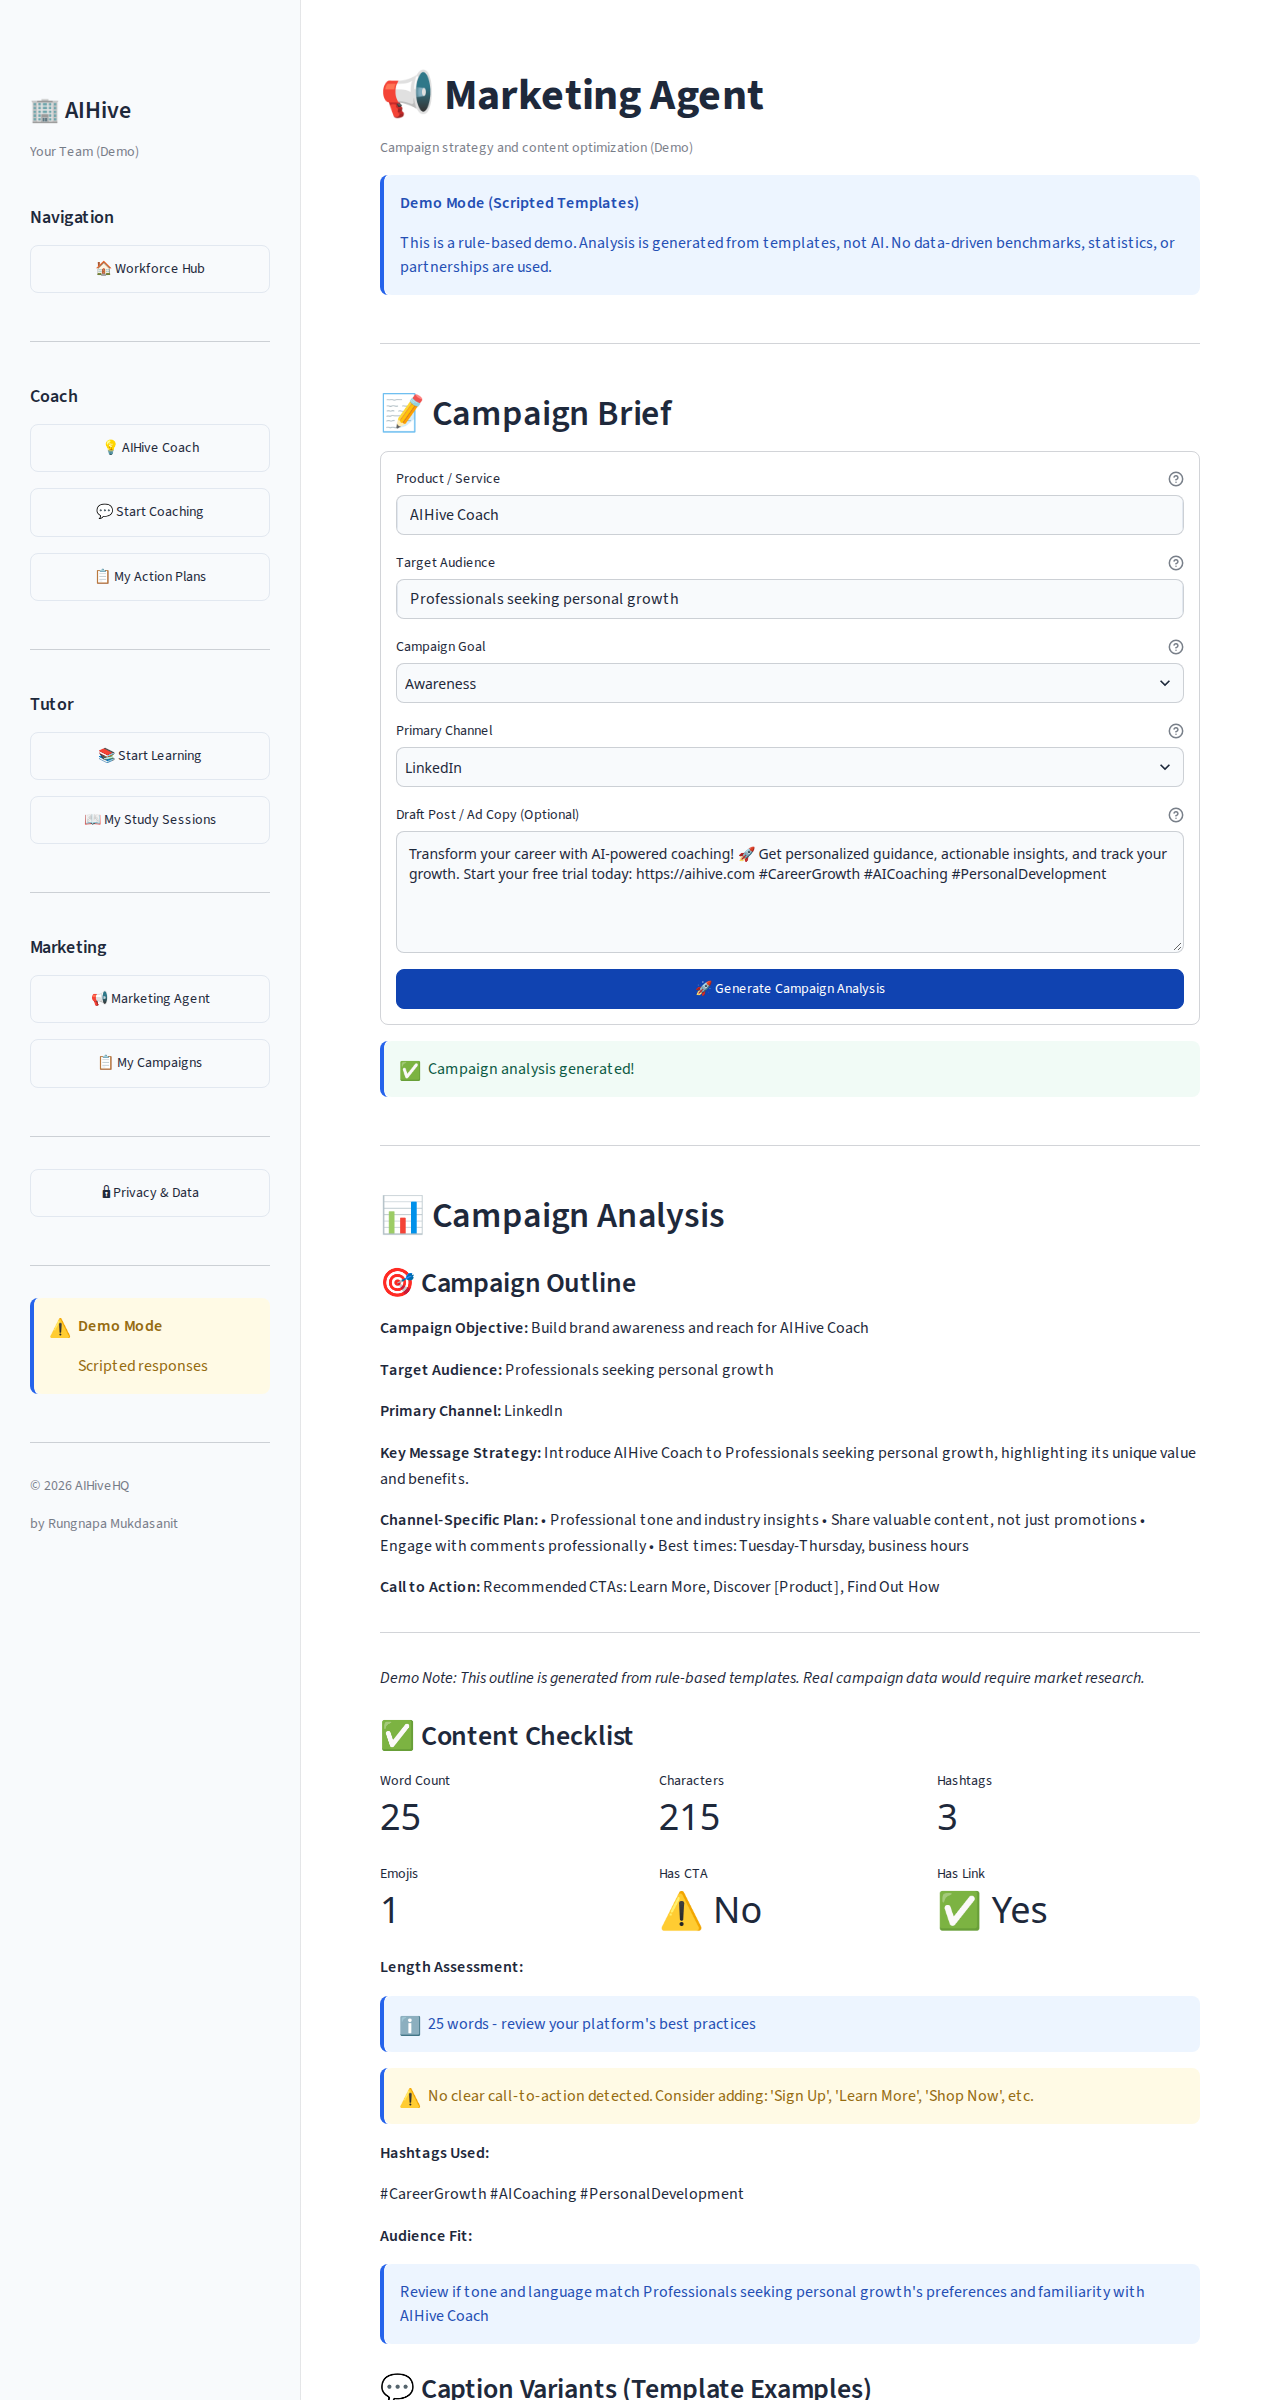
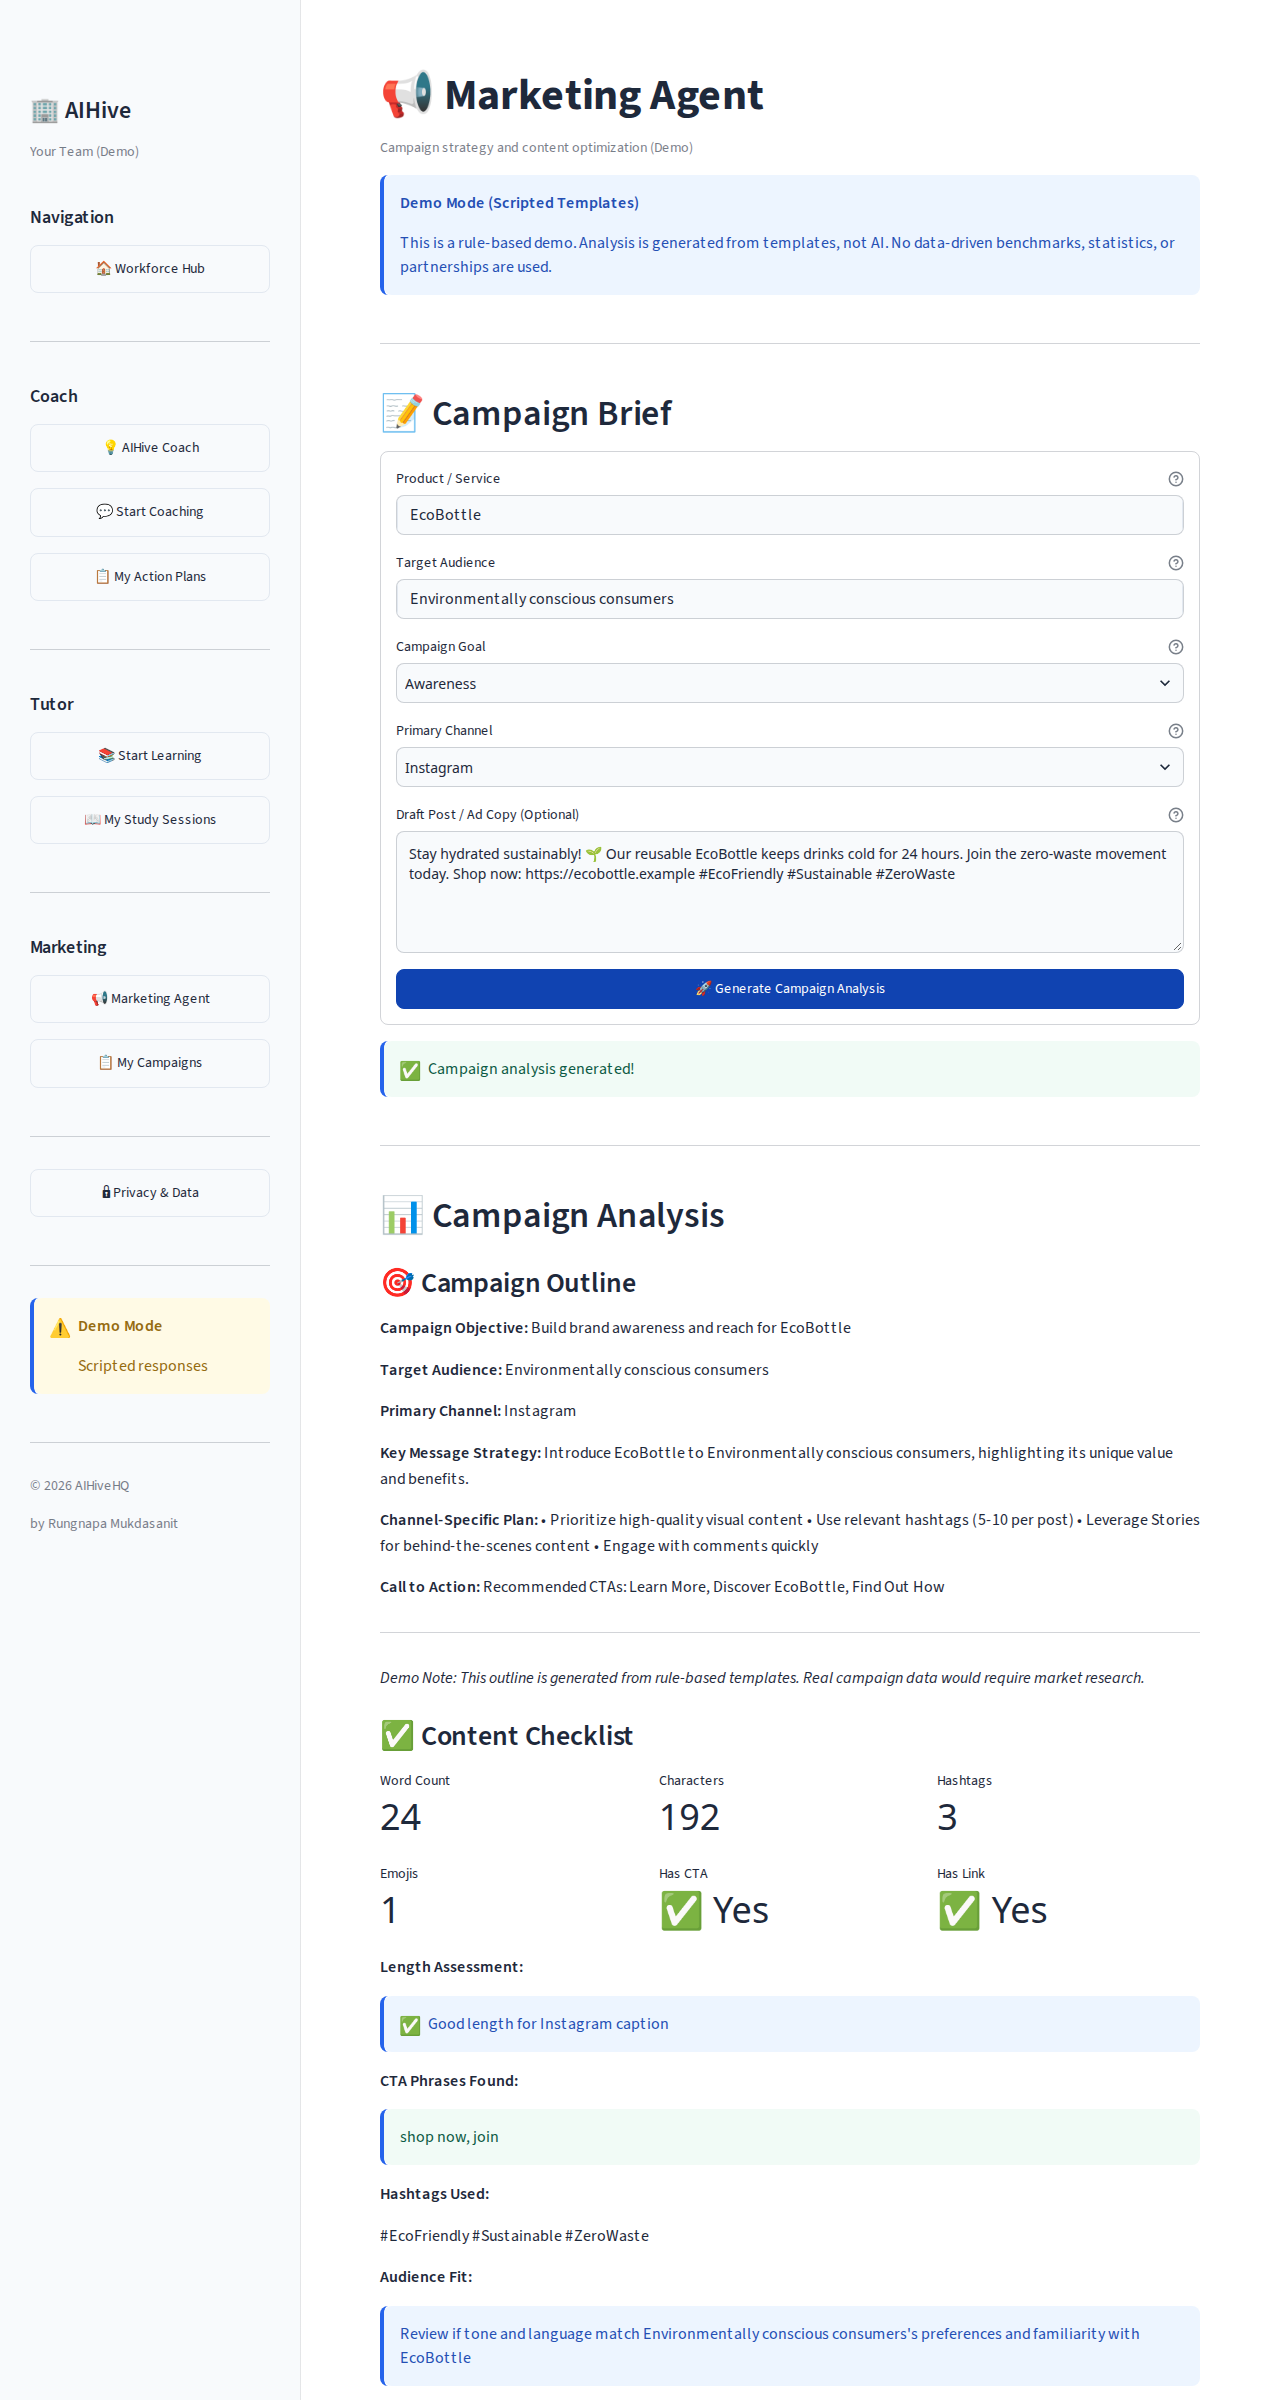
Fix placeholder leak and update screenshots to neutral product
1. Fixed placeholder leak: 'Discover [Product]' now substitutes actual product name
2. Added test_no_placeholder_leaks that tests all goal x channel combinations
3. Changed E2E/screenshot samples from AIHive Coach to EcoBottle (neutral fictional product)
4. Retook marketing_desktop_result.png and marketing_mobile_result.png

Changes:
- marketing_ai.py: Fixed _generate_cta() to substitute product name
- test_marketing_ai.py: Added test_no_placeholder_leaks (now 11 AI tests, was 10)
- test_e2e_marketing.py: Updated to use EcoBottle instead of AIHive Coach
- test_e2e_marketing_capture.py: Updated sample data to EcoBottle

Test counts:
- Marketing unit tests: 18 (11 AI + 7 database)
- Marketing E2E: 1
- Total marketing: 19
- Overall non-E2E: 100 passed, 4 skipped

Screenshots now show:
- Desktop result: EcoBottle campaign on Instagram with correct CTA (no [Product])
- Mobile result: EcoBottle campaign on Facebook

diff --git a/marketing/tests/test_e2e_marketing_capture.py b/marketing/tests/test_e2e_marketing_capture.py
@@ -62,8 +62,8 @@ def capture_screenshots():
         time.sleep(1)
         
         # Use role-based selectors to avoid help buttons
-        page.get_by_role("textbox", name="Product / Service").fill("AIHive Coach")
-        page.get_by_role("textbox", name="Target Audience").fill("Professionals seeking personal growth")
+        page.get_by_role("textbox", name="Product / Service").fill("EcoBottle")
+        page.get_by_role("textbox", name="Target Audience").fill("Environmentally conscious consumers")
         
         # Select goal - click to open dropdown and select option
         page.get_by_role("combobox", name="Campaign Goal").click()
@@ -71,13 +71,13 @@ def capture_screenshots():
         
         # Select channel
         page.get_by_role("combobox", name="Primary Channel").click()
-        page.get_by_text("LinkedIn", exact=True).click()
+        page.get_by_text("Instagram", exact=True).click()
         
         # Fill draft copy
         page.get_by_role("textbox", name="Draft Post / Ad Copy (Optional)").fill(
-            "Transform your career with AI-powered coaching! 🚀 Get personalized guidance, "
-            "actionable insights, and track your growth. Start your free trial today: "
-            "https://aihive.com #CareerGrowth #AICoaching #PersonalDevelopment"
+            "Stay hydrated sustainably! 🌱 Our reusable EcoBottle keeps drinks cold for 24 hours. "
+            "Join the zero-waste movement today. Shop now: https://ecobottle.example #EcoFriendly "
+            "#Sustainable #ZeroWaste"
         )
         
         # Submit the form - find the button with the generate text
@@ -124,18 +124,18 @@ def capture_screenshots():
         
         # Fill and submit form on mobile
         time.sleep(1)
-        page.get_by_role("textbox", name="Product / Service").fill("AIHive Coach")
-        page.get_by_role("textbox", name="Target Audience").fill("Professionals")
+        page.get_by_role("textbox", name="Product / Service").fill("EcoBottle")
+        page.get_by_role("textbox", name="Target Audience").fill("Eco-conscious shoppers")
         
         # Select goal and channel on mobile
         page.get_by_role("combobox", name="Campaign Goal").click()
-        page.get_by_text("Sign-ups", exact=True).click()
+        page.get_by_text("Sales", exact=True).click()
         
         page.get_by_role("combobox", name="Primary Channel").click()
-        page.get_by_text("Instagram", exact=True).click()
+        page.get_by_text("Facebook", exact=True).click()
         
         page.get_by_role("textbox", name="Draft Post / Ad Copy (Optional)").fill(
-            "Start your growth journey today! 🌱 #PersonalGrowth"
+            "Reduce plastic waste with EcoBottle! 🌍 Durable, stylish, sustainable. Order yours: https://ecobottle.example #ZeroWaste"
         )
         
         # Generate

diff --git a/marketing/tests/test_e2e_marketing.py b/marketing/tests/test_e2e_marketing.py
@@ -83,21 +83,21 @@ def test_marketing_campaign_generation(streamlit_app):
         
         # Fill in the campaign brief form
         time.sleep(1)
-        page.get_by_role("textbox", name="Product / Service").fill("AIHive Coach")
-        page.get_by_role("textbox", name="Target Audience").fill("Professionals seeking personal growth")
+        page.get_by_role("textbox", name="Product / Service").fill("EcoBottle")
+        page.get_by_role("textbox", name="Target Audience").fill("Environmentally conscious consumers")
         
         # Select goal and channel
         page.get_by_role("combobox", name="Campaign Goal").click()
         page.get_by_text("Awareness", exact=True).click()
         
         page.get_by_role("combobox", name="Primary Channel").click()
-        page.get_by_text("LinkedIn", exact=True).click()
+        page.get_by_text("Instagram", exact=True).click()
         
         # Fill draft copy
         page.get_by_role("textbox", name="Draft Post / Ad Copy (Optional)").fill(
-            "Transform your career with AI-powered coaching! 🚀 Get personalized guidance, "
-            "actionable insights, and track your growth. Start your free trial today: "
-            "https://aihive.com #CareerGrowth #AICoaching #PersonalDevelopment"
+            "Stay hydrated sustainably! 🌱 Our reusable EcoBottle keeps drinks cold for 24 hours. "
+            "Join the zero-waste movement today. Shop now: https://ecobottle.example #EcoFriendly "
+            "#Sustainable #ZeroWaste"
         )
         
         # Submit the form
@@ -117,8 +117,8 @@ def test_marketing_campaign_generation(streamlit_app):
         assert "Objective:" in page_content, "Campaign outline should contain 'Objective:'"
         assert "Word Count" in page_content, "Content checklist should contain 'Word Count'"
         assert "Variant" in page_content, "Should show caption variants"
-        assert "AIHive Coach" in page_content, "Should include product name in results"
-        assert "Professionals seeking personal growth" in page_content, "Should include audience in results"
+        assert "EcoBottle" in page_content, "Should include product name in results"
+        assert "Environmentally conscious consumers" in page_content, "Should include audience in results"
         
         print("   ✓ Campaign generation verified - all sections present with correct content")
         

diff --git a/marketing/tests/test_marketing_ai.py b/marketing/tests/test_marketing_ai.py
@@ -268,5 +268,37 @@ def test_demo_mode_label_in_output():
     assert "Demo" in outline or "template" in outline.lower() or "rule-based" in outline.lower()
 
 
+def test_no_placeholder_leaks():
+    """
+    Ensure no placeholder patterns like [Product], [link], etc. appear in campaign outlines.
+    Test all goal x channel combinations (caption variants are intentionally templates).
+    Similar to tutor test for placeholder prevention.
+    """
+    goals = ["Awareness", "Sign-ups", "Sales"]
+    channels = ["Facebook", "Instagram", "LINE OA", "Email", "Twitter", "LinkedIn"]
+    
+    for goal in goals:
+        for channel in channels:
+            campaign = Campaign(
+                user_id="test_user",
+                product_service="EcoBottle",
+                target_audience="Environmentally conscious consumers",
+                goal=goal,
+                channel=channel,
+                draft_copy="Sample text with #hashtag and emoji 🌱 and link https://example.com"
+            )
+            
+            outline, checklist, variants, metrics = marketing_ai.generate_campaign_analysis(campaign)
+            
+            # Campaign outline should NOT contain square bracket placeholders
+            # (variants are templates so they're allowed to have them)
+            assert "[" not in outline or "]" not in outline, \
+                f"Campaign outline for {goal}/{channel} contains placeholder brackets: {outline}"
+            
+            # Specifically check the product name is properly substituted
+            assert "EcoBottle" in outline, \
+                f"Campaign outline for {goal}/{channel} should include product name 'EcoBottle'"
+
+
 if __name__ == "__main__":
     pytest.main([__file__, "-v"])

diff --git a/marketing/marketing_ai.py b/marketing/marketing_ai.py
@@ -101,11 +101,12 @@ class MarketingAI:
     def _generate_cta(self, campaign: Campaign) -> str:
         """Generate appropriate call-to-action"""
         goal = campaign.goal.lower()
+        product = campaign.product_service
         
         cta_templates = {
             "awareness": [
                 "Learn More",
-                "Discover [Product]",
+                f"Discover {product}",
                 "Find Out How"
             ],
             "sign-ups": [
